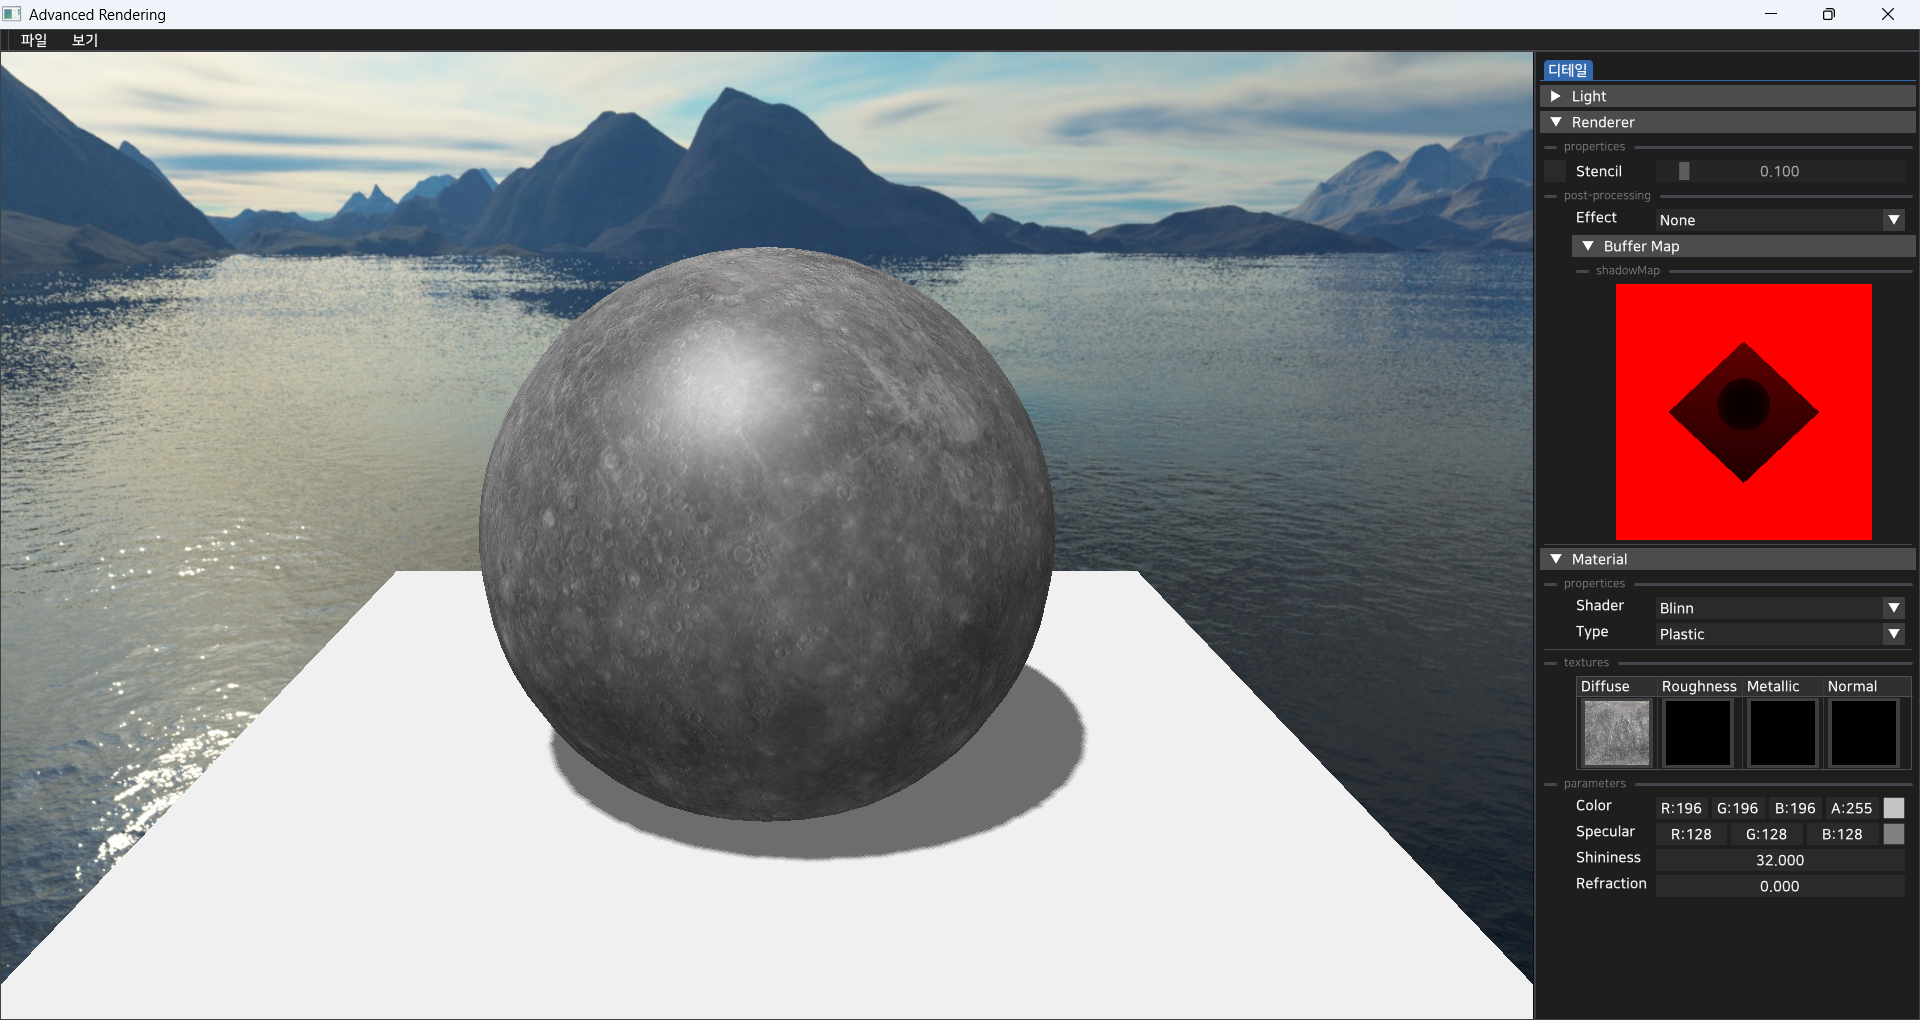
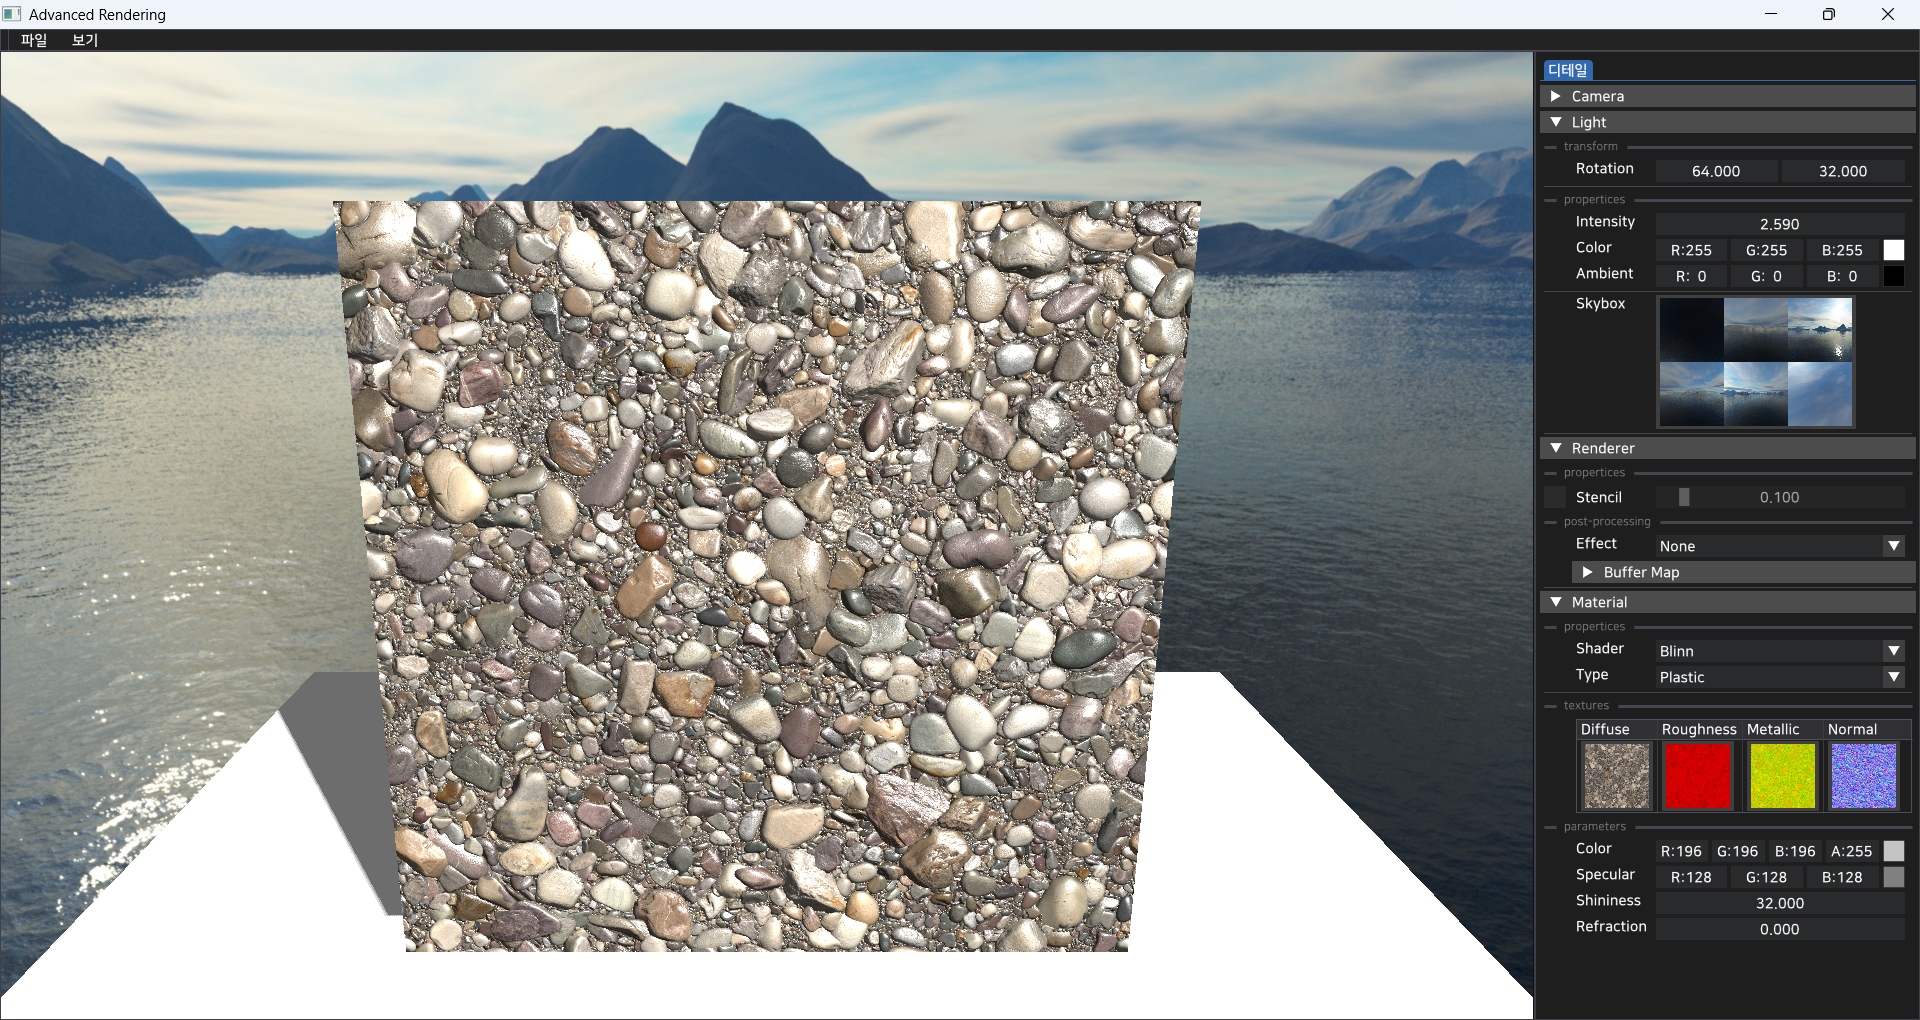
TextureMap 추가

diff --git a/src/resource/private/resourceManager.cpp b/src/resource/private/resourceManager.cpp
@@ -20,6 +20,27 @@ ResourceManager::ResourceManager()
     auto mercuryTexture = std::make_unique<OpenGLTexture>(texPath);
     ITexture* ptrTexture = mercuryTexture.get();
     textures.emplace("mercury", std::move(mercuryTexture));
+    //create ganges
+    //diffuse
+    auto gangesDiffuseTexture = std::make_unique<OpenGLTexture>("/textures/ganges_river_pebbles_diff_2k.png");
+    ITexture* ptrgangesDiffTexture = gangesDiffuseTexture.get();
+    textures.emplace("ganges_river_pebbles_diff_2k", std::move(gangesDiffuseTexture));
+    auto gangesroughTexture = std::make_unique<OpenGLTexture>("/textures/ganges_river_pebbles_rough_2k.png");
+    ITexture* ptrgangesroughTexture = gangesroughTexture.get();
+    textures.emplace("ganges_river_pebbles_rough_2k", std::move(gangesroughTexture));
+    auto gangesnorTexture = std::make_unique<OpenGLTexture>("/textures/ganges_river_pebbles_nor_gl_2k.png");
+    ITexture* ptrgangesnorTexture = gangesnorTexture.get();
+    textures.emplace("ganges_river_pebbles_nor_gl_2k", std::move(gangesnorTexture));
+    auto gangesaoTexture = std::make_unique<OpenGLTexture>("/textures/ganges_river_pebbles_ao_2k.png");
+    ITexture* ptrgangesaoTexture = gangesaoTexture.get();
+    textures.emplace("ganges_river_pebbles_ao_2k", std::move(gangesaoTexture));
+    auto gangesdispTexture = std::make_unique<OpenGLTexture>("/textures/ganges_river_pebbles_disp_2k.png");
+    ITexture* ptrgangesdispTexture = gangesdispTexture.get();
+    textures.emplace("ganges_river_pebbles_disp_2k", std::move(gangesdispTexture));
+    auto gangesarmTexture = std::make_unique<OpenGLTexture>("/textures/ganges_river_pebbles_arm_2k.png");
+    ITexture* ptrgangesarmTexture = gangesarmTexture.get();
+    textures.emplace("ganges_river_pebbles_arm_2k", std::move(gangesarmTexture));
+
     //create grass texture
     const std::string grasstexPath = "/textures/grass.png";
     auto grassTexture = std::make_unique<OpenGLTexture>(grasstexPath);
@@ -80,7 +101,10 @@ ResourceManager::ResourceManager()
     IMaterial* ptrMaterial = standardMaterial.get();
     materials.emplace("standardMaterial", std::move(standardMaterial));
     OpenGLMaterial* mat = static_cast<OpenGLMaterial*>(ptrMaterial);
-    mat->AddTexture(ptrTexture, 1);
+    mat->AddTexture(ptrgangesDiffTexture, 1);
+    mat->AddTexture(ptrgangesroughTexture, 2);
+    mat->AddTexture(ptrgangesarmTexture, 3);
+    mat->AddTexture(ptrgangesnorTexture, 4);
     //create planeMaterial
     auto planeMaterial = std::make_unique<OpenGLMaterial>(ptrShader);
     materials.emplace("planeMaterial", std::move(planeMaterial));

diff --git a/src/core/private/editor.cpp b/src/core/private/editor.cpp
@@ -300,7 +300,7 @@ void Editor::CreateMainMenuBar()
                 MeshComponent* meshComponent = Context::GetContext()->world->GetSelectedActor()->GetComponent<MeshComponent>();
                 IMesh* mesh = Context::GetContext()->resourceManager->FindMesh("plane");
                 meshComponent->SetMesh(mesh);
-                meshComponent->SetPosition(glm::vec3(0.0f, 2.0f, 0.0f));
+                meshComponent->SetPosition(glm::vec3(0.0f, 2.5f, 0.0f));
                 meshComponent->SetRotation(glm::vec3(90.0f, 0.0f, 0.0f));
                 meshComponent->SetScale(glm::vec3(0.5f));
             }
@@ -396,6 +396,25 @@ void Editor::CreateRightPanel()
             //ImVec2 pos = viewport->WorkPos;
             //pos.y += 5.0f;
             //ImGui::SetCursorPosY(pos.y);
+            if (ImGui::CollapsingHeader("Camera", ImGuiTreeNodeFlags_DefaultOpen))
+            {
+                CameraComponent* cameraComponent = Context::GetContext()->world->GetCurrentCamera()->GetComponent<CameraComponent>();
+                ImGui::PushStyleColor(ImGuiCol_Text, IM_COL32(255, 255, 255, 120));
+                ImGui::PushFont(nanumSquare.reqular, 13.0f);
+
+                ImGui::SeparatorText("transform");
+                ImGui::PopFont();
+                ImGui::PopStyleColor();
+
+                ImGui::SetCursorPosX(40.0f);
+                ImGui::Text("Rotation");
+                ImGui::SameLine(120.0f, 0.0f);
+                
+                ImGui::DragFloat2("##camrotationfoat3", cameraComponent->GetRotation(), 1.0f, -360.0f, 360.0f);
+                ImGui::Separator();
+            }
+
+
             if (ImGui::CollapsingHeader("Light", ImGuiTreeNodeFlags_DefaultOpen))
             {
                 ImGui::PushStyleColor(ImGuiCol_Text, IM_COL32(255, 255, 255, 120));

diff --git a/src/renderer/private/material.cpp b/src/renderer/private/material.cpp
@@ -65,6 +65,24 @@ void OpenGLMaterial::Draw(MeshComponent* component)
         parameter.diffuseTexture->Bind();
         shaderIndex ++;
     }
+    if (parameter.roughnessTextrue != nullptr)
+    {
+        shader->SetBool("bRoughness", true);
+        GLint location = shader->GetLocation("roughnessTexture");
+        glUniform1i(location, shaderIndex);
+        glActiveTexture(GL_TEXTURE0+shaderIndex);
+        parameter.roughnessTextrue->Bind();
+        shaderIndex ++;
+    }
+    if (parameter.normalTexture != nullptr)
+    {
+        shader->SetBool("bNormal", true);
+        GLint location = shader->GetLocation("normalTexture");
+        glUniform1i(location, shaderIndex);
+        glActiveTexture(GL_TEXTURE0+shaderIndex);
+        parameter.normalTexture->Bind();
+        shaderIndex ++;
+    }
     //shadowMap
     GLint location = shader->GetLocation("shadowmapTexture");
     glm::mat4 lightView = lightComponent->GetViewMatrix();
@@ -78,17 +96,10 @@ void OpenGLMaterial::Draw(MeshComponent* component)
 void OpenGLMaterial::UnBind()
 {
     LightComponent* lightComponent = Context::GetContext()->world->GetCurrentLight()->GetComponent<LightComponent>();
-    if (parameter.diffuseTexture != nullptr)
-    {
-        shader->SetBool("bDiffuse", false);
-        parameter.diffuseTexture->UnBind();
-    }
-    //skybox
-    if(lightComponent->GetSkyboxTexture() != nullptr)
-    {
-        shader->SetBool("bSkybox", false);
-        lightComponent->GetSkyboxTexture()->UnBind();
-    }
+    shader->SetBool("bDiffuse", false);
+    shader->SetBool("bRoughness", false);
+    shader->SetBool("bNormal", false);
+    shader->SetBool("bSkybox", false);
     glBindTexture(GL_TEXTURE_2D, 0);
     shader->EndProgam();
 }

diff --git a/src/renderer/private/renderer.cpp b/src/renderer/private/renderer.cpp
@@ -70,7 +70,7 @@ void OpenGLRenderer::CreateBuffer(int width, int height)
     glGenFramebuffers(1, &shadowFrameBuffer);
     glBindFramebuffer(GL_FRAMEBUFFER, shadowFrameBuffer);
     //shadowMap texture
-    unsigned int shadow_width = 1024, shadow_height = 1024;
+    unsigned int shadow_width = 2048, shadow_height = 2048;
     glGenTextures(1, &shadowFrameTexture);
     glBindTexture(GL_TEXTURE_2D, shadowFrameTexture);
     glTexImage2D(GL_TEXTURE_2D, 0, GL_DEPTH_COMPONENT, shadow_width, shadow_height, 0, GL_DEPTH_COMPONENT, GL_FLOAT, nullptr);
@@ -147,7 +147,7 @@ void OpenGLRenderer::Draw()
     glBufferSubData(GL_UNIFORM_BUFFER, sizeof(glm::mat4), sizeof(glm::mat4), glm::value_ptr(lightComponent->GetProjectionMatrix()));
     glBindBuffer(GL_UNIFORM_BUFFER, 0);
     //Shadow map framebuffer
-    glViewport(0,0,1024,1024);
+    glViewport(0,0,2048,2048);
     glBindFramebuffer(GL_FRAMEBUFFER, shadowFrameBuffer);
     glEnable(GL_DEPTH_TEST);
     glClear(GL_DEPTH_BUFFER_BIT);

diff --git a/src/core/private/application.cpp b/src/core/private/application.cpp
@@ -30,7 +30,7 @@ void Application::Init()
     //create Camera
     auto actor = world->CreateActor("Camera Actor");
     auto cameraComponent = actor->AddComponent<CameraComponent>();
-    cameraComponent->SetPosition(glm::vec3(0.0f, 5.0f, 10.0f));
+    cameraComponent->SetPosition(glm::vec3(0.0f, 5.0f, 7.0f));
     world->SetCurrentCamera(actor);
     //create Light
     actor = world->CreateActor("Light Actor");
@@ -57,7 +57,7 @@ void Application::Init()
     {
         auto actor = world->CreateActor("Mesh Actor");
         actor->AddComponent<MeshComponent>(it->second.get(), standardMaterial);
-        actor->GetComponent<MeshComponent>()->SetPosition(glm::vec3(0.0f, 2.0f, 0.0f));
+        actor->GetComponent<MeshComponent>()->SetPosition(glm::vec3(0.0f, 2.5f, 0.0f));
         actor->GetComponent<MeshComponent>()->SetScale(glm::vec3(2.5f));
         world->SetSelectedActor(actor);
     }

diff --git a/src/component/public/cameraComponent.hpp b/src/component/public/cameraComponent.hpp
@@ -23,6 +23,6 @@ class CameraComponent:public SceneComponent
     private:
         glm::mat4 view{1.0f};
         glm::mat4 projection{1.0f};
-        glm::vec3 targetPosition{0.0f, 2.0f, 0.0f};
+        glm::vec3 targetPosition{0.0f, 3.0f, 0.0f};
         CameraParameter cameraParameter;
 };
